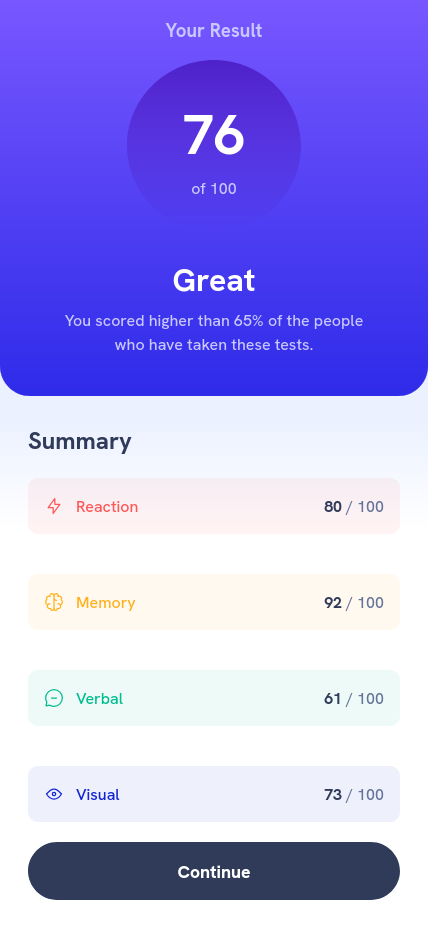
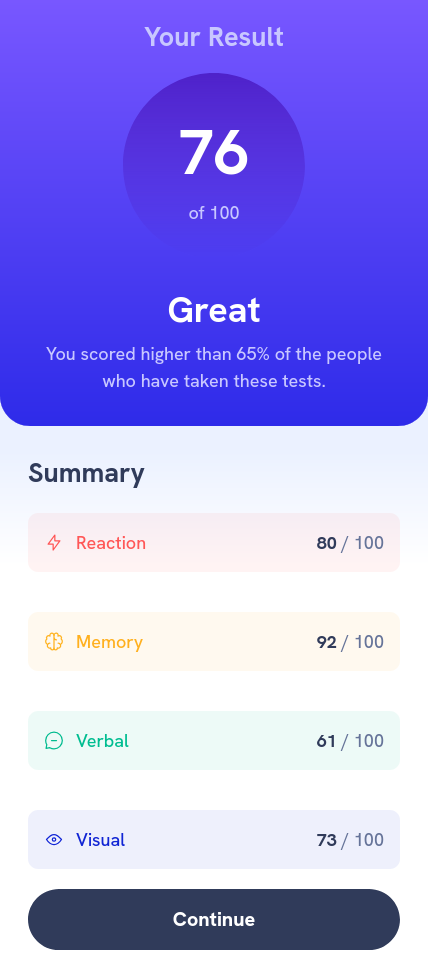
Update screenshots in readme

diff --git a/index.html b/index.html
@@ -17,7 +17,7 @@
     <body>
         <article>
             <div class="result">
-                <h3>Your Result</h3>
+                <h2>Your Result</h2>
                 <div class="percent">
                     <span class="obtained">76</span>
                     <span class="total">of 100</span>

diff --git a/README.md b/README.md
@@ -27,7 +27,7 @@ Users should be able to:
 
 ### Screenshot
 
-![](./images/screenshot.png)
+![](./images/screenshot-desktop.png)
 
 ![](./images/screenshot-mobile.png)
 
